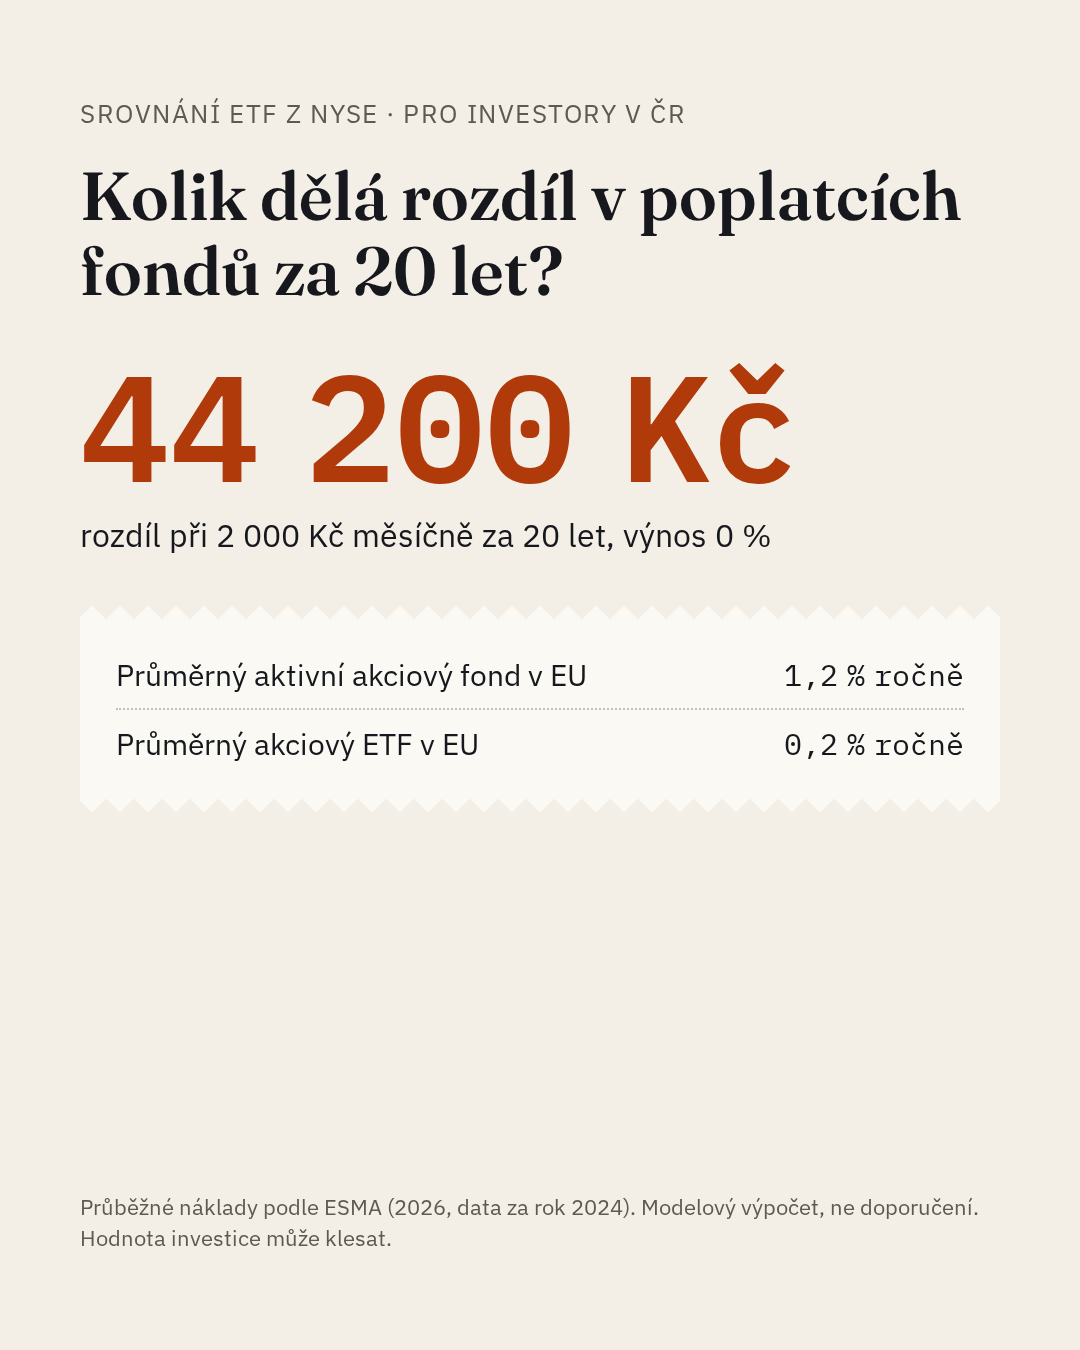
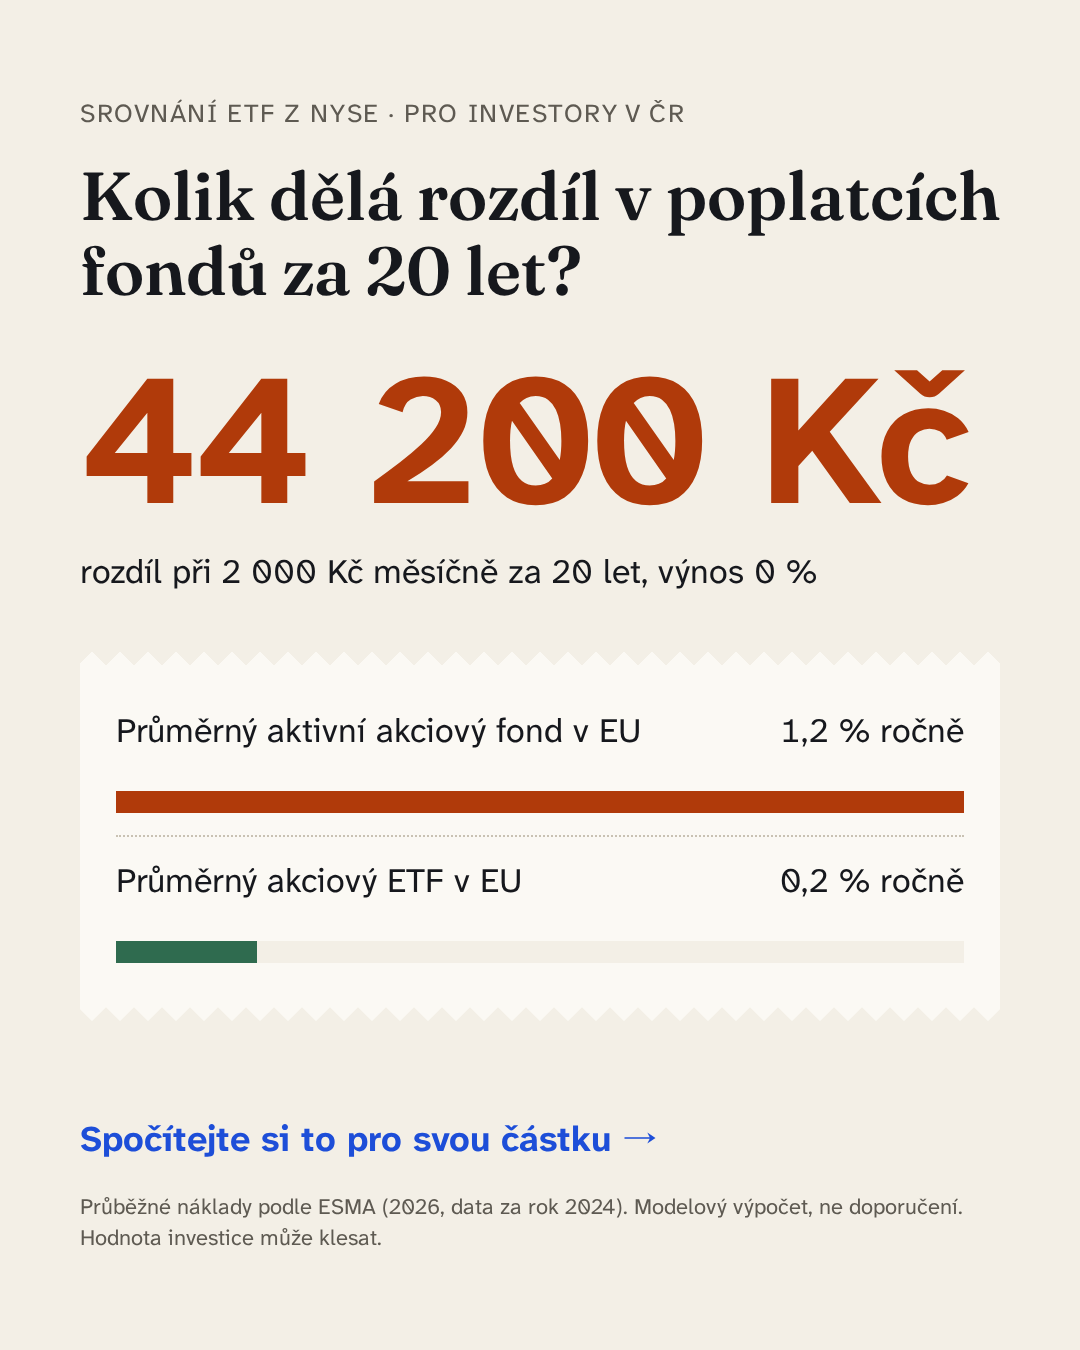
Reklamy 2.0: tokeny a písma stránky, vyplněná spodní třetina, pozvánka bez tvaru tlačítka
Sdílené ad.css: akční barva, Atkinson Hyperlegible Next, Fraunces s opsz 48
(nadpis A i B stejný řez). A: větší číslo a pruhy 1,2 % : 0,2 % v účtence.
B: větší účtenka. Dole typografický řádek v akční barvě – žádné falešné tlačítko
(pravidlo Meta), zapsáno do právního checklistu. Render hlídá přetečení i na šířku
a ochrannou zónu Stories. PNG přerenderována.

diff --git a/ads/a-uspora/ad.html b/ads/a-uspora/ad.html
@@ -4,17 +4,32 @@
 <meta charset="utf-8">
 <link rel="preconnect" href="https://fonts.googleapis.com">
 <link rel="preconnect" href="https://fonts.gstatic.com" crossorigin>
-<link rel="stylesheet" href="https://fonts.googleapis.com/css2?family=Fraunces:opsz,wght@9..144,600&family=IBM+Plex+Mono:wght@400;600&family=IBM+Plex+Sans:wght@400;600&display=block">
+<link rel="stylesheet" href="https://fonts.googleapis.com/css2?family=Atkinson+Hyperlegible+Next:wght@400;600;700&family=Fraunces:opsz,wght@9..144,600&display=block">
 <link rel="stylesheet" href="../_shared/ad.css">
 <title>Reklama A – úspora</title>
 <style>
-  .gap { font-size: 150px; font-weight: 600; line-height: 1; color: var(--loss); margin-top: 40px; }
-  .cond { font-size: 32px; line-height: 1.35; margin-top: 16px; }
-  .receipt { margin-top: 48px; }
+  .gap { font-size: 186px; font-weight: 700; line-height: 1; letter-spacing: -0.02em; color: var(--loss); margin-top: 40px; }
+  .cond { font-size: 34px; line-height: 1.35; margin-top: 16px; }
+  .receipt { margin-top: 56px; }
+  .row { flex-wrap: wrap; font-size: 34px; padding-block: 22px; }
+  /* Pruh = roční náklad ve stejném měřítku (1,2 % : 0,2 %). Zelená jen pro levnější variantu. */
+  .bar { flex-basis: 100%; height: 22px; margin-top: 14px; background: var(--paper); }
+  .bar i { display: block; height: 100%; }
+  .bar .loss { background: var(--loss); }
+  .bar .keep { background: var(--keep); }
   .f-1x1 h1 { font-size: 58px; margin-top: 20px; }
-  .f-1x1 .gap { font-size: 130px; margin-top: 28px; }
-  .f-1x1 .receipt { margin-top: 32px; }
-  .f-1x1 .row { padding-block: 10px; font-size: 28px; }
+  .f-1x1 .gap { font-size: 164px; margin-top: 24px; }
+  .f-1x1 .cond { font-size: 30px; margin-top: 10px; }
+  .f-1x1 .receipt { margin-top: 28px; padding-block: calc(var(--tooth) + 12px); }
+  .f-1x1 .row { padding-block: 14px; font-size: 30px; }
+  .f-1x1 .bar { height: 16px; margin-top: 10px; }
+  .f-1x1 .invite { font-size: 32px; margin-bottom: 18px; }
+  .f-9x16 .gap { font-size: 150px; margin-top: 28px; }
+  .f-9x16 .cond { font-size: 30px; }
+  .f-9x16 .receipt { margin-top: 32px; padding-block: calc(var(--tooth) + 14px); }
+  .f-9x16 .row { padding-block: 10px; font-size: 30px; }
+  .f-9x16 .bar { height: 12px; margin-top: 8px; }
+  .f-9x16 .invite { font-size: 32px; margin-top: 28px; }
 </style>
 </head>
 <body>
@@ -25,10 +40,11 @@
   <p class="gap num">44&nbsp;200&nbsp;Kč</p>
   <p class="cond">rozdíl při 2&nbsp;000&nbsp;Kč měsíčně za 20&nbsp;let, výnos 0&nbsp;%</p>
   <div class="receipt">
-    <div class="row"><span>Průměrný aktivní akciový fond v&nbsp;EU</span><span class="num">1,2&nbsp;% ročně</span></div>
-    <div class="row"><span>Průměrný akciový ETF v&nbsp;EU</span><span class="num">0,2&nbsp;% ročně</span></div>
+    <div class="row"><span>Průměrný aktivní akciový fond v&nbsp;EU</span><span class="num">1,2&nbsp;% ročně</span><span class="bar"><i class="loss" style="width: 100%"></i></span></div>
+    <div class="row"><span>Průměrný akciový ETF v&nbsp;EU</span><span class="num">0,2&nbsp;% ročně</span><span class="bar"><i class="keep" style="width: 16.67%"></i></span></div>
   </div>
   <div class="spacer"></div>
+  <p class="invite">Spočítejte si to pro svou částku →</p>
   <p class="note">Průběžné náklady podle ESMA (2026, data za rok 2024). Modelový výpočet, ne doporučení. Hodnota investice může klesat.</p>
 </main>
 </body>

diff --git a/ads/b-zvedavost/ad.html b/ads/b-zvedavost/ad.html
@@ -4,21 +4,30 @@
 <meta charset="utf-8">
 <link rel="preconnect" href="https://fonts.googleapis.com">
 <link rel="preconnect" href="https://fonts.gstatic.com" crossorigin>
-<link rel="stylesheet" href="https://fonts.googleapis.com/css2?family=Fraunces:opsz,wght@9..144,600&family=IBM+Plex+Mono:wght@400;600&family=IBM+Plex+Sans:wght@400;600&display=block">
+<link rel="stylesheet" href="https://fonts.googleapis.com/css2?family=Atkinson+Hyperlegible+Next:wght@400;600;700&family=Fraunces:opsz,wght@9..144,600&display=block">
 <link rel="stylesheet" href="../_shared/ad.css">
 <title>Reklama B – zvědavost</title>
 <style>
   h1 { font-size: 104px; line-height: 1.02; margin-top: 36px; }
-  .lead { font-size: 40px; line-height: 1.3; margin-top: 28px; }
-  .receipt { margin-top: 56px; }
-  .tick { font-family: var(--mono); font-weight: 600; white-space: nowrap; }
-  /* Ticker bezpatkově: v IBM Plex Mono vypadá písmeno O jako nula */
-  .ticker { font-weight: 600; }
+  .lead { font-size: 44px; line-height: 1.3; margin-top: 32px; }
+  .receipt { margin-top: 72px; padding-block: calc(var(--tooth) + 32px); }
+  .row { font-size: 46px; padding-block: 34px; }
+  .row .sub { font-size: 30px; margin-top: 8px; }
+  .tick { font-weight: 700; white-space: nowrap; }
+  /* Ticker ve stejném písmu jako text: Atkinson Hyperlegible má nulu s lomítkem, O se s ní neplete */
+  .ticker { font-weight: 700; }
   .no { color: var(--loss); }
   .yes { color: var(--keep); }
-  .f-1x1 h1 { font-size: 88px; margin-top: 24px; }
-  .f-1x1 .lead { font-size: 34px; margin-top: 18px; }
-  .f-1x1 .receipt { margin-top: 36px; }
+  .f-1x1 h1 { font-size: 96px; margin-top: 24px; }
+  .f-1x1 .lead { font-size: 38px; margin-top: 20px; }
+  .f-1x1 .receipt { margin-top: 44px; padding-block: calc(var(--tooth) + 20px); }
+  .f-1x1 .row { font-size: 38px; padding-block: 22px; }
+  .f-1x1 .row .sub { font-size: 27px; margin-top: 4px; }
+  .f-1x1 .invite { font-size: 32px; margin-bottom: 18px; }
+  .f-9x16 .lead { margin-top: 24px; }
+  .f-9x16 .receipt { margin-top: 44px; padding-block: calc(var(--tooth) + 14px); }
+  .f-9x16 .row { font-size: 40px; padding-block: 18px; }
+  .f-9x16 .invite { margin-top: 28px; }
 </style>
 </head>
 <body>
@@ -38,6 +47,7 @@
     </div>
   </div>
   <div class="spacer"></div>
+  <p class="invite">Podívejte se na srovnání →</p>
   <p class="note">KID vyžaduje nařízení PRIIPs pro prodej drobným investorům v&nbsp;EU. Vzdělávací srovnání, ne doporučení.</p>
 </main>
 </body>

diff --git a/ads/_shared/ad.css b/ads/_shared/ad.css
@@ -1,4 +1,4 @@
-/* Vizuály reklam ve stylu stránky „Výpis z účtu“. Tokeny převzaté z app/globals.css – při změně palety upravit obojí.
+/* Vizuály reklam ve stylu stránky „Výpis z účtu 2.0“. Tokeny převzaté z app/globals.css – při změně palety upravit obojí.
    Plátno 1080 px na šířku, výška podle formátu (třída na <body>: f-1x1, f-4x5, f-9x16). */
 :root {
   --paper: #f3efe6;
@@ -8,9 +8,9 @@
   --rule: #c9c2b3;
   --loss: #b03a0a;
   --keep: #2f6b4f;
+  --action: #1d4ed8;
   --display: "Fraunces", Georgia, serif;
-  --sans: "IBM Plex Sans", system-ui, sans-serif;
-  --mono: "IBM Plex Mono", ui-monospace, monospace;
+  --sans: "Atkinson Hyperlegible Next", system-ui, sans-serif;
 }
 
 * { box-sizing: border-box; margin: 0; }
@@ -45,6 +45,8 @@ body.f-9x16 { height: 1920px; }
 
 h1 {
   font-family: var(--display);
+  /* Pevná optická velikost jako na stránce: nadpis A (68 px) i B (104 px) má stejný řez */
+  font-variation-settings: "opsz" 48;
   font-weight: 600;
   font-size: 68px;
   line-height: 1.1;
@@ -52,9 +54,7 @@ h1 {
 }
 
 .num {
-  font-family: var(--mono);
   font-variant-numeric: tabular-nums;
-  word-spacing: -0.3em;
 }
 
 /* Účtenka s perforovaným okrajem – stejná maska jako .receipt na stránce */
@@ -84,3 +84,13 @@ h1 {
 }
 
 .spacer { flex: 1; }
+
+/* Pozvánka na stránku: jen typografický řádek v akční barvě. Žádná výplň, rámeček ani zaoblení –
+   Meta zakazuje obrázky, které napodobují neexistující funkce (falešná tlačítka). */
+.invite {
+  font-size: 36px;
+  font-weight: 700;
+  color: var(--action);
+  margin-top: 40px;
+  margin-bottom: 28px;
+}

diff --git a/ads/README.md b/ads/README.md
@@ -77,13 +77,16 @@ Podle mantinelů v [`CLAUDE.md`](../CLAUDE.md). Toto není právní rada. Před 
 | Žádné personalizované doporučení (MiFID II) | ✓ | ✓ |
 | Netvrdíme, co není ověřené | ✓ | ✓ dostupnost konkrétního UCITS fondu v ČR (`registered_in_cz` u VUAA = null) reklama netvrdí |
 | Žádné fotky, loga emitentů ani vymyšlené značky | ✓ | ✓ |
+| **Žádné falešné ovládací prvky ve vizuálu.** Meta zakazuje obrázky, které napodobují neexistující funkce (tlačítka, přehrávače, zaškrtávátka). Pozvánka na stránku je jen typografický řádek v akční barvě, bez výplně, rámečku a zaoblení. Tlačítko přidá Meta samo (CTA reklamy) | ✓ „Spočítejte si to pro svou částku →“ | ✓ „Podívejte se na srovnání →“ |
 | Hero slibuje totéž co reklama | ✓ tabulka v [`a-uspora/README.md`](a-uspora/README.md) | ✓ tabulka v [`b-zvedavost/README.md`](b-zvedavost/README.md) |
 
 Chybí: **údaje skutečného provozovatele.** Meta i spotřebitelské právo chtějí vědět, kdo inzeruje. Ukázkový projekt je nemá (README, Co chybí).
 
 ## Vizuály
 
-HTML šablony ve stylu stránky (papír, inkoust, účtenka, Fraunces + IBM Plex). Bez fotek a log. Barvy a třídy jsou ve sdíleném [`_shared/ad.css`](_shared/ad.css), převzaté z `app/globals.css`.
+HTML šablony ve stylu stránky „Výpis z účtu 2.0“ (papír, inkoust, účtenka, nadpisy Fraunces s pevnou optickou velikostí `opsz 48`, text a čísla Atkinson Hyperlegible Next s tabulkovými číslicemi). Bez fotek a log. Barvy (včetně akční kobaltové `#1D4ED8`), písma a třídy jsou ve sdíleném [`_shared/ad.css`](_shared/ad.css), převzaté z `app/globals.css`. Pevná optická velikost zajišťuje, že nadpis A (68 px) i B (104 px) má stejný řez.
+
+Spodní třetinu formátů 1:1 a 4:5 vyplňuje větší číslo a účtenka (A s pruhy ve stejném měřítku 1,2 % : 0,2 %, B s většími řádky) a pozvánka na stránku. `npm run render-ads` spadne, když obsah přeteče rám na výšku i na šířku nebo když u 9:16 zajede do spodní ochranné zóny Stories.
 
 ```bash
 npm run render-ads   # ads/*/ad.html → feed-1x1.png, feed-4x5.png, stories-9x16.png (potřebuje síť kvůli Google Fonts)
